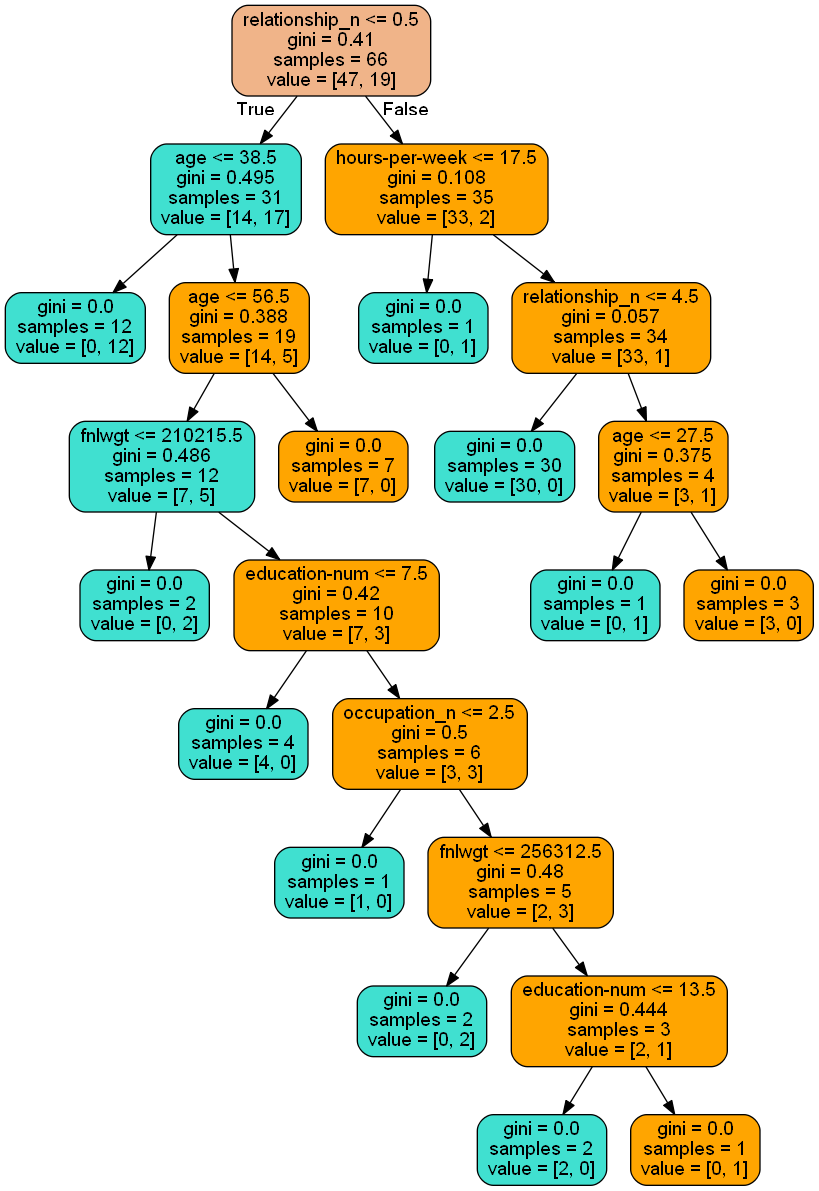
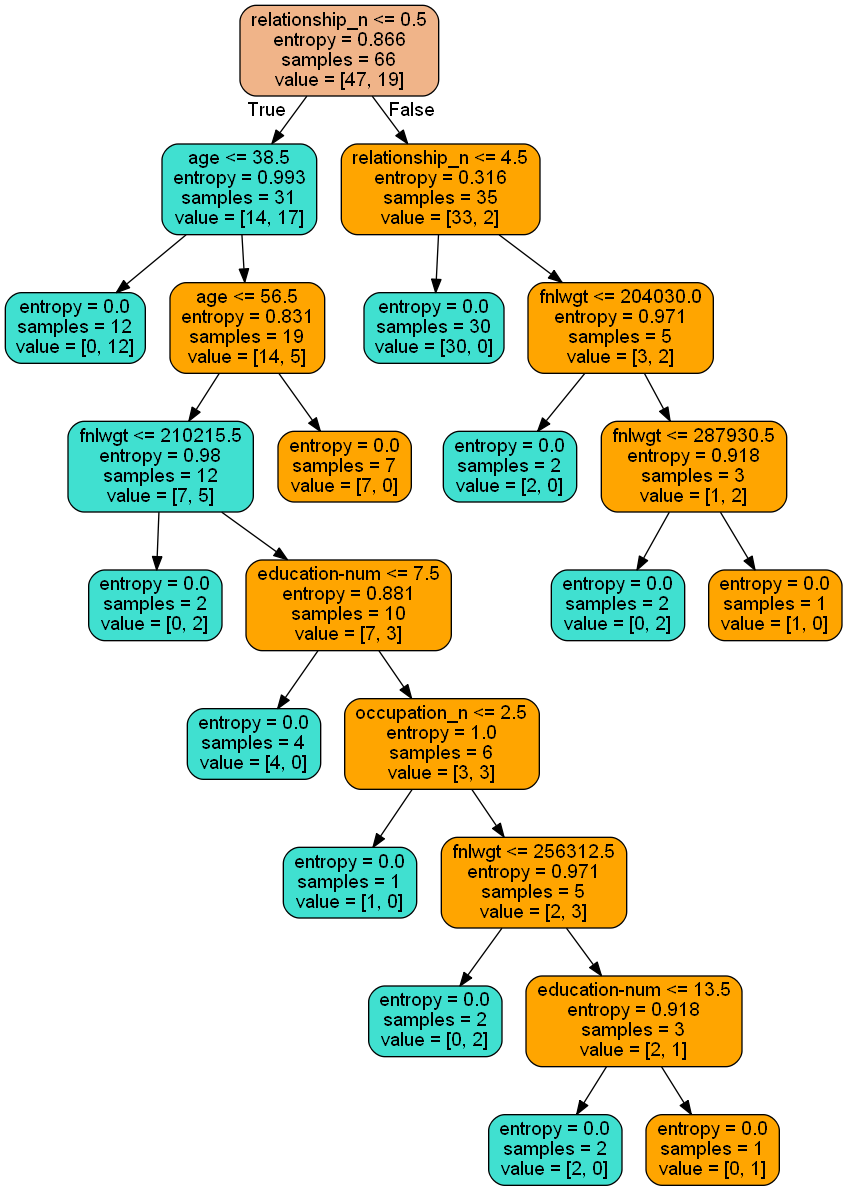
fixed merge

Changed region(s): [[0.0, 0.0, 1.0, 1.0]]

diff --git a/bla.py b/bla.py
@@ -3,6 +3,7 @@ from sklearn.linear_model import LogisticRegression
 import matplotlib.pyplot as plt
 import numpy as np
 import pandas as pd
+from sklearn.linear_model import SGDClassifier
 from sklearn.model_selection import train_test_split
 from sklearn.preprocessing import LabelEncoder
 import csv_handle as csv_org
@@ -31,7 +32,6 @@ def splitdataset(balance_data):
         X, Y, test_size=0.3, random_state=100)
 
     return X, Y, X_train, X_test, y_train, y_test
-
 
 
 def main():
@@ -66,21 +66,17 @@ def main():
 
     csv_org.normalizationAll(df)  # normalization data
 
-    # XMatrix = csv_org.x_matrix(df)
-    # y = csv_org.y_vector(df)
-    # print(df)
-    # print(df)
-
 
 #####################3
     XMatrix = csv_org.x_matrix(df)
     y = csv_org.y_vector(df)
     X, Y, X_train, X_test, y_train, y_test = splitdataset(df)
-
+    clf = SGDClassifier(loss="hinge", penalty="l2", max_iter=5)
+    clf.fit(X, y)
     # print(X_train)
-    logreg =LogisticRegression(C=0.5, solver='lbfgs', penalty='l2').fit(XMatrix,y)
+    # logreg =LogisticRegression(C=0.5, solver='lbfgs', penalty='l2').fit(XMatrix,y)
     # print(logreg)
-    y_pred=error.prediction(XMatrix, logreg,y )
+    # y_pred=error.prediction(XMatrix, logreg,y )
     # error.cal_accuracy(y_test, y_pred, X_test)
 
 # Calling main function

diff --git a/decision_tree_handle.py b/decision_tree_handle.py
@@ -84,7 +84,7 @@ def train_using_gini(X_train,  y_train):
 #--------------------------------------------------
 def treeForCountry(country_name, X_train,y_train,data_feature_names):
 
-        clf = tree.DecisionTreeClassifier(criterion="gini", random_state=100)
+        clf = tree.DecisionTreeClassifier(criterion="entropy", random_state=100)
 
         clf = clf.fit(X_train,y_train)
         # clf=train_using_gini(X_train, y_train)

diff --git a/error_handle.py b/error_handle.py
@@ -46,7 +46,7 @@ def cal_accuracy(y_test, y_pred,x_test):
     and sample average -only for multilabel classification- NOT IN  OUR CASE
     """
     print("Report :",
-          classification_report(y_test, y_pred,target_names="1"))
+          classification_report(y_test, y_pred))
 
 
 #-------------------------------------
